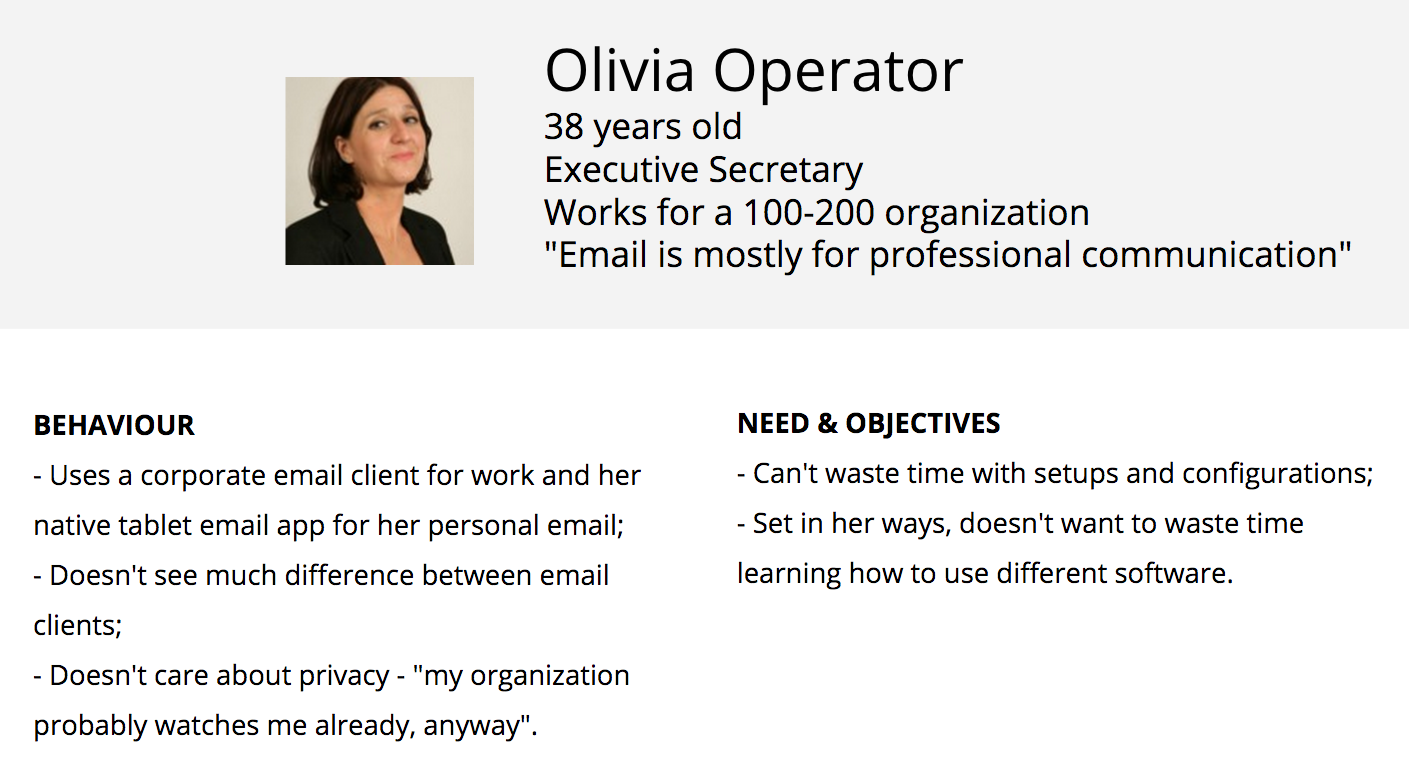
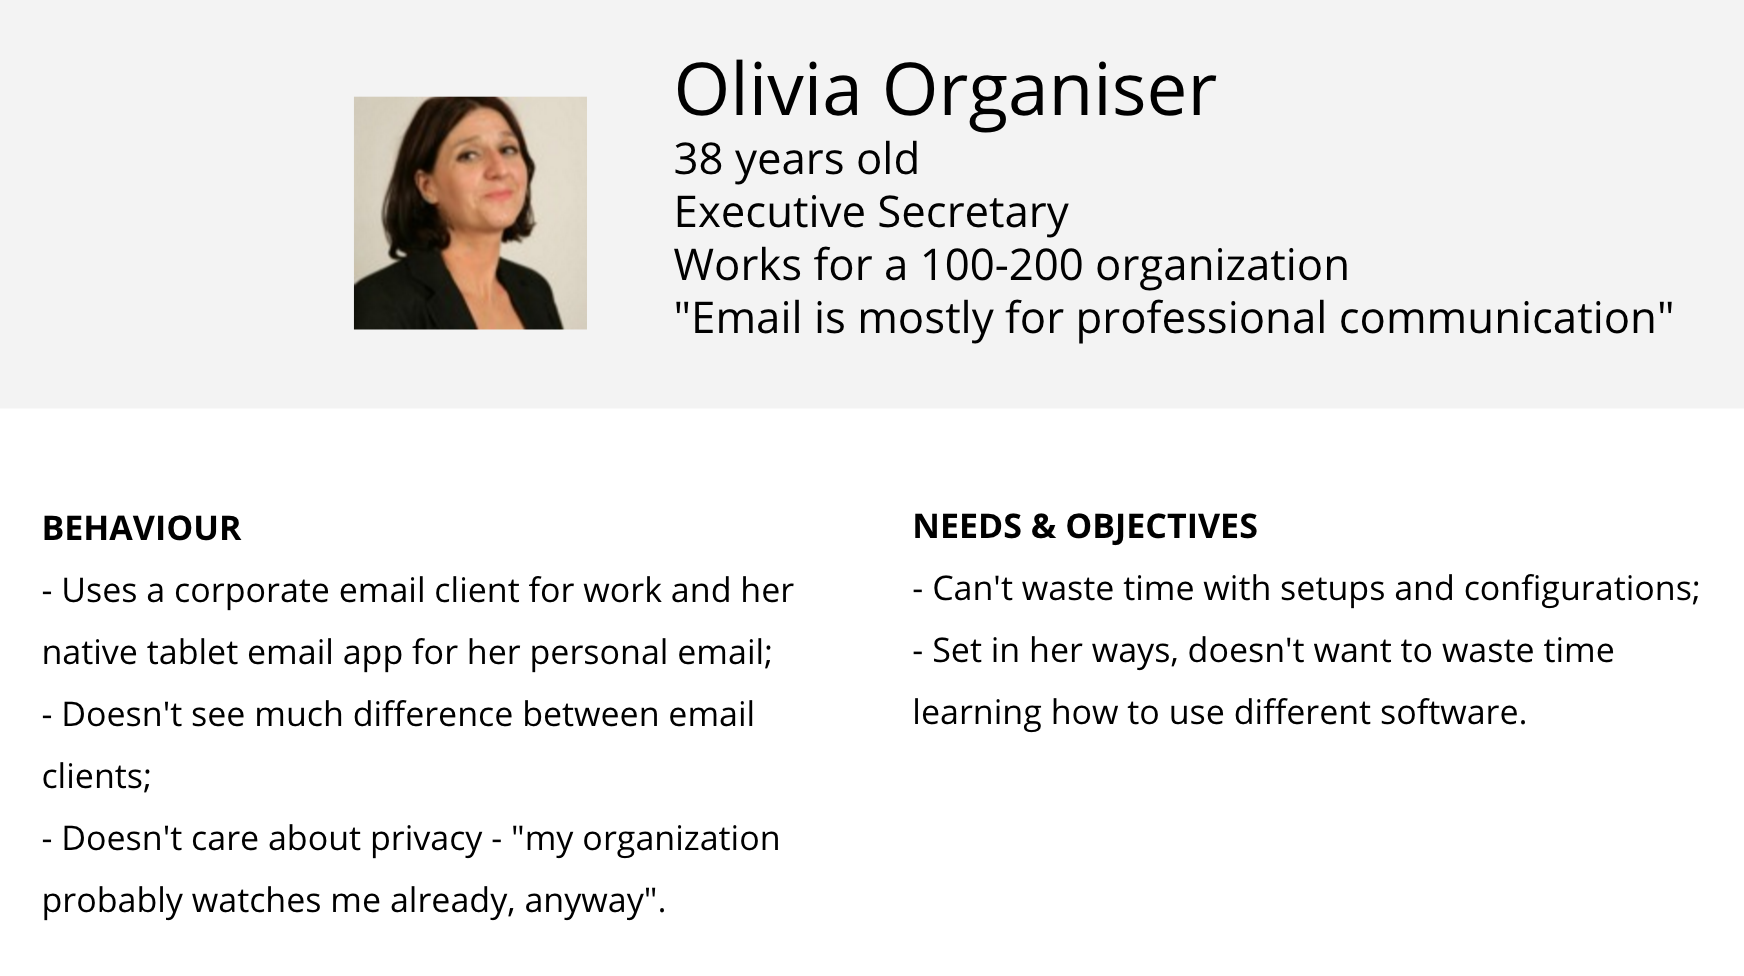
Adding new personas

diff --git a/_posts/2015-07-15-personas.md b/_posts/2015-07-15-personas.md
@@ -8,23 +8,37 @@ by [Gabriel Albo](https://twitter.com/albogabriel)
 
 Aiming for mass adoption makes targetting specific types of users hard. Plus, being such a widely used kind of application, figuring out what email users are like is a hard enough task - add encryption on top of that and the complexity gets way bigger.
 
-In order to try to solve that, we've interviewed dozens of people while trying to map what personas could represent our users. The idea is to always have them in mind when we're designing features, user interface elements and looking for people to perform user testing with to validate what we're doing.
+In order to try to solve that, we've interviewed dozens of people while trying to map what personas could represent our users. After we've opened Pixelated for the first few test users, we went back into user testing and discovered we could specify a couple more personas and update a few details about the existing ones, so we did. And this is meant to be a contant process.
+
+
+The idea is to always have them in mind when we're designing features, user interface elements and looking for people to perform user testing with to validate what we're doing.
 
 Here's the result.
 
 
 ![Sally Savvy](/assets/images/posts/personas/persona_sally.png)
 
-Sally is a hacktvist. She's technologist, an activist and open-source contributor, so she's the kind of people who will help Pixelated and also talk about the project to other people. 
+Sally is a developer. She's a technologist and open-source contributor, so she's the kind of people who will help Pixelated and also talk about the project to other people. 
 
 Being tech savvy, her needs differ a lot from most users - for instance, she might care more about having keyboard shortcuts than color themes.
+<br><br><br>
 
+![Jamie Journalist](/assets/images/posts/personas/persona_jamie.png)
+
+Jamie is an investigative journalist for whom privacy is essential. Having private data leaked could endanger her family, career and personal freedom, so she needs easy to use privacy tools. While she might not be necessarily the type of user for whom Pixelated will be the solution, it's important that we keep her in mind all the time.
+<br><br><br>
+
+![Chris Crypto](/assets/images/posts/personas/persona_chris.png)
+
+Chris is a privacy activist. He understands a lot about encryption and privacy tools and wants to help people learn how to use them. His main goal is to fight mass surveillance, so mass adoption as a way to increase encrypted data flow is a big deal for him, too.
+<br><br><br>
 
 ![Paul Productive](/assets/images/posts/personas/persona_paul.png)
 
 Paul's not a technologist, but he cares about privacy and is not afraid to try new technologies. This can represent any professional who would want to try Pixelated - maybe not contribute to its code or troubleshoot setup issues, but play with the system and even provide constructive feedback.
 <br><br><br>
-![Olivia Operator](/assets/images/posts/personas/persona_olivia.png)
+
+![Olivia Organiser](/assets/images/posts/personas/persona_olivia.png)
 
 Olivia is probably the most common type of user; she uses email mostly as a professional mean of communication and, in most cases, uses whatever provider or client her organization provides. She's not tech savvy, doesn't care as much about privacy and wants to be able to quickly learn whatever tools she needs to use. For those reasons, if encryption is too complicated for her, she'd simply not use it - so she needs a painless crypto experience :)
 <br><br><br>
